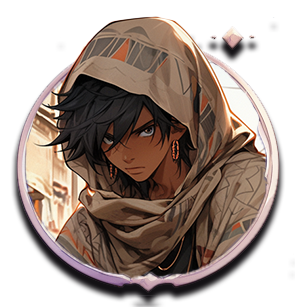
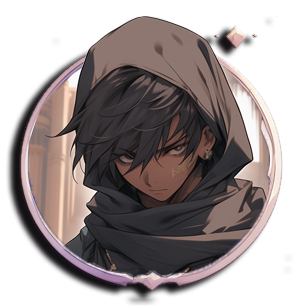
Añadidas y actualizadas las fotos de los pj y añadido el boton enciclopedia al menu principal

diff --git a/src/app/services/personajes/personajes.service.ts b/src/app/services/personajes/personajes.service.ts
@@ -23,14 +23,16 @@ export class PersonajesService {
       INSERT INTO personajes (nombre, retrato, foto, seleccionado, id_Jugador) VALUES
       ('Anush Faris', 'assets/retratos/Anush_Faris.png', 'assets/fotos/Anush.png', 0, null),
       ('Daria Samira', 'assets/retratos/Daria_Samira.png', 'assets/fotos/Daria.png', 0, null),
+      ('Eileen Galena', 'assets/retratos/Eileen_Galena.png', 'assets/fotos/Eileen.png', 0, null),
       ('Elmira Falak', 'assets/retratos/Elmira_Falak.png', 'assets/fotos/Elmira.png', 0, null),
       ('Kamran Soroush', 'assets/retratos/Kamran_Soroush.png', 'assets/fotos/Kamran.png', 0, null),
-      ('Kavan Arash', 'assets/retratos/Kavan_Arash.png', '', 0, null),
-      ('Mahdi Kaveh', 'assets/retratos/Mahdi_Kaveh.png', '', 0, null),
-      ('Nahid Minoo', 'assets/retratos/Nahid_Minoo.png', '', 0, null),
-      ('Renad Alkifa', 'assets/retratos/Renad_Alkifa.png', '', 0, null),
-      ('Tarsa Yasmin', 'assets/retratos/Tarsa_Yasmin.png', '', 0, null),
-      ('Xander Vasilios', 'assets/retratos/Xander_Vasilios.png', '', 0, null);
+      ('Kavan Arash', 'assets/retratos/Kavan_Arash.png', 'assets/fotos/Kavan.png', 0, null),
+      ('Mahdi Kaveh', 'assets/retratos/Mahdi_Kaveh.png', 'assets/fotos/Mahdi.png', 0, null),
+      ('Nahid Minoo', 'assets/retratos/Nahid_Minoo.png', 'assets/fotos/Nahid.png', 0, null),
+      ('Nitara_saanvi', 'assets/retratos/Nitara_Saanvi.png', 'assets/fotos/Nitara.png', 0, null),
+      ('Renad Alkifa', 'assets/retratos/Renad_Alkifa.png', 'assets/fotos/Renad.png', 0, null),
+      ('Tarsa Yasmin', 'assets/retratos/Tarsa_Yasmin.png', 'assets/fotos/Tarsa.png', 0, null),
+      ('Xander Vasilios', 'assets/retratos/Xander_Vasilios.png', 'assets/fotos/Xander.png', 0, null);
       `;
       try {
         await db.execute(query);

diff --git a/src/app/home/home.page.html b/src/app/home/home.page.html
@@ -20,9 +20,14 @@
         <img src="../../assets/img/Logo.png" alt="titulo" class="titulo">
       </div>
       <div id="menu">
-        <button class="boton sketsa" (click)="continuarPartida()" [class.no-partida]="!partidaEnCurso"><span>Continuar</span></button>
-        <button class="boton sketsa" (click)="iniciarNuevaPartida()"><span>Nueva Partida</span></button>
-        <button class="boton sketsa"><span>Opciones</span></button>
+        <ion-row class="fila">
+          <button class="boton sketsa" (click)="continuarPartida()" [class.no-partida]="!partidaEnCurso"><span>Continuar</span></button>
+          <button class="boton sketsa" (click)="iniciarNuevaPartida()"><span>Nueva Partida</span></button>
+        </ion-row>
+        <ion-row class="fila">
+          <button class="boton sketsa"><span>Opciones</span></button>
+          <button class="boton sketsa"><span>Enciclopedia</span></button>
+        </ion-row>
       </div>
     </div>
   </div>

diff --git a/src/app/home/home.page.scss b/src/app/home/home.page.scss
@@ -29,7 +29,8 @@
     justify-content: center;
     align-items: center;
     gap: 0.5rem;
-    width: 45%;
+    width: 55%;
+    // width: 45%;
     // padding-bottom: 1.5%;
     
     #titulo{
@@ -46,6 +47,14 @@
       height: 50%;
 
       animation: menuAparece 4s ease-in-out forwards;
+
+      .fila {
+        display: flex;
+        flex-direction: row;
+        align-items: center;
+        justify-content: center;
+        width: 100%;
+      }
       
       .boton{
         background: url('../../assets/img/Boton.png') no-repeat center center;
@@ -56,8 +65,10 @@
         width: 877px;
         height: 60px;
 
-        max-width: 80%;
-        max-height: 50%;
+        // max-width: 80%;
+        // max-height: 50%;
+        max-width: 100%;
+        max-height: 80%;
         padding-top: 0.4rem;
 
         font-family: 'Sketsa', sans-serif;

diff --git a/src/app/home/home.page.ts b/src/app/home/home.page.ts
@@ -7,13 +7,14 @@ import { SqliteService } from '../services/sqlite.service';
 import { Platform } from '@ionic/angular/standalone';
 import { PartidaService } from '../services/partida/partida.service';
 import { Partida } from '../interfaces/partida';
+import { SharedModule } from '../shared/shared.module';
 
 @Component({
   selector: 'app-home',
   templateUrl: 'home.page.html',
   styleUrls: ['home.page.scss'],
   standalone: true,
-  imports: [IonHeader, IonToolbar, IonTitle, IonContent],
+  imports: [IonHeader, IonToolbar, IonTitle, IonContent, SharedModule],
 })
 export class HomePage {
   partidaEnCurso: boolean = false;

diff --git a/src/app/shared/shared.module.ts b/src/app/shared/shared.module.ts
@@ -1,0 +1,10 @@
+import { NgModule } from '@angular/core';
+import { CommonModule } from '@angular/common';
+import { IonicModule } from '@ionic/angular';
+import { FormsModule } from '@angular/forms';
+
+@NgModule({
+  imports: [CommonModule, IonicModule, FormsModule],
+  exports: [CommonModule, IonicModule, FormsModule]
+})
+export class SharedModule {}
